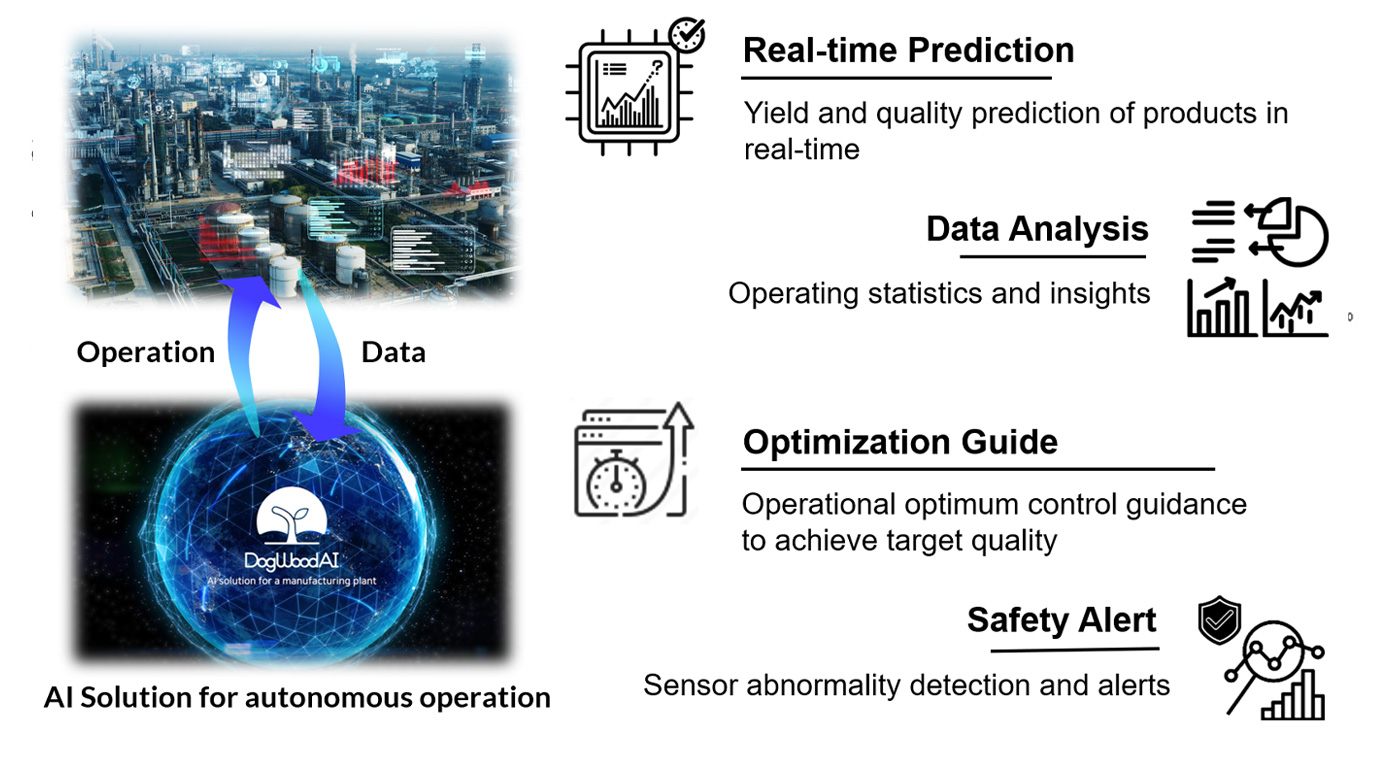
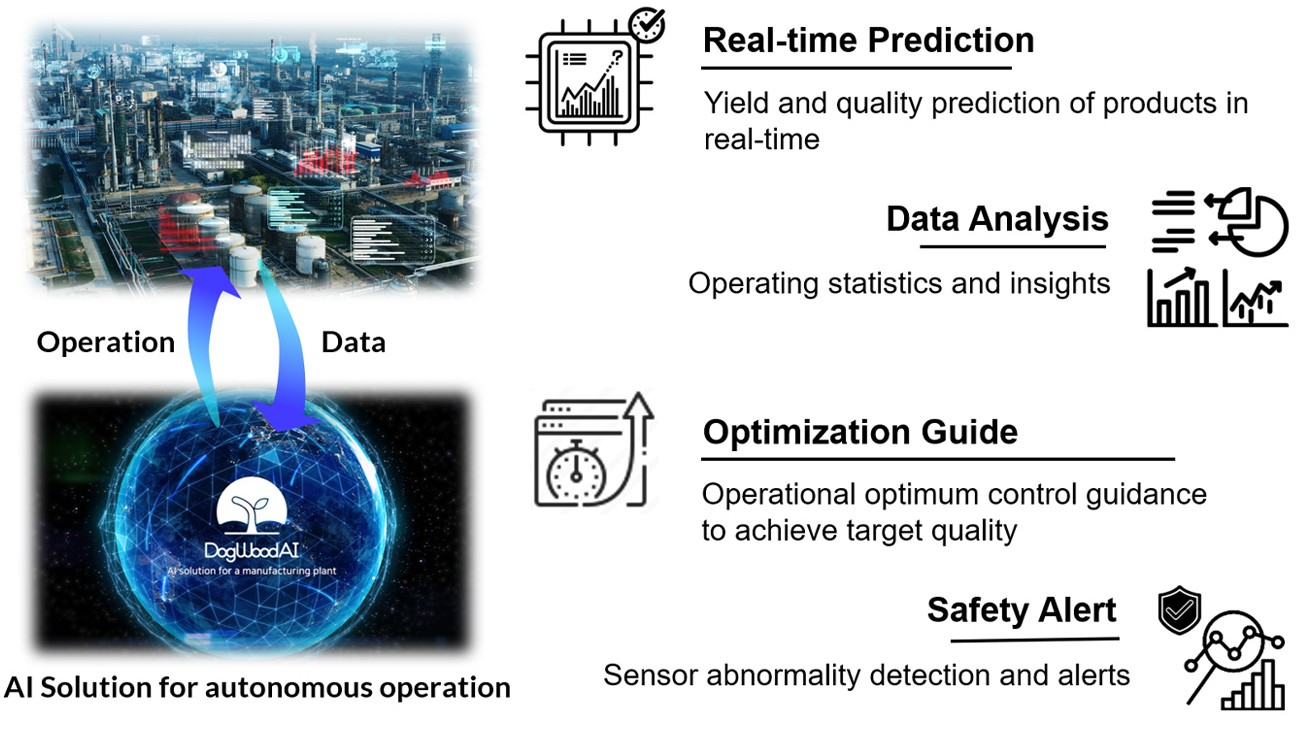
💄 UPDATE: projects 위치조정 및 rndd와 solution 수정
projects 이미지/영상 위치조정, rndd 이미지캡션 밑줄제거, solution 보조키 다시 복구

diff --git a/js/translations.js b/js/translations.js
@@ -82,6 +82,14 @@ window.I18N = {
     "nav.sol6":"PlantAgentPro",
     "nav.sol7":"MLOps",
     "nav.sol8":"Consulting",
+    "nav.sol1.d":"Real-time Product Prediction",
+    "nav.sol2.d":"Operational Data Analysis",
+    "nav.sol3.d":"Plant AI Optimizer",
+    "nav.sol4.d":"Plant AI Simulator",
+    "nav.sol5.d":"Safety Analysis",
+    "nav.sol6.d":"Plant AI Agent",
+    "nav.sol7.d":"AI Management",
+    "nav.sol8.d":"Industrial AI Solution Challenges",
 
     "nav.patents":"Patents",
     "nav.publications":"Publications",
@@ -442,6 +450,14 @@ window.I18N = {
     "nav.sol6":"PlantAgentPro",
     "nav.sol7":"MLOps",
     "nav.sol8":"컨설팅",
+    "nav.sol1.d":"실시간 품질 예측",
+    "nav.sol2.d":"운전 데이터 분석",
+    "nav.sol3.d":"공정 AI 최적화",
+    "nav.sol4.d":"공정 AI 시뮬레이터",
+    "nav.sol5.d":"안전 분석",
+    "nav.sol6.d":"플랜트 AI 에이전트",
+    "nav.sol7.d":"AI 모델 관리",
+    "nav.sol8.d":"산업 AI 도입 컨설팅",
 
     "nav.patents":"특허",
     "nav.publications":"논문",
@@ -479,9 +495,9 @@ window.I18N = {
     "g.benefits":"기대 효과",
     "g.about":"소개",
     "g.case":"적용 사례",
-    "g.challenge":"과제",
-    "g.approachH":"접근 방법",
-    "g.value":"제공 가치",
+    "g.challenge":"해결 과제",
+    "g.approachH":"접근 방식",
+    "g.value":"도입 효과",
     "quick.contact":"CONTACT US",
     "quick.top":"TOP",
     "ap.intro":"DogwoodAI는 각 고객의 요구사항과 플랜트의 운영 환경에 맞춰 최적의 머신러닝 기술을 적용하며, 자율 제조를 실현하기 위해 아래의 다양한 핵심 접근법을 통해 AI 솔루션을 개발하고 있습니다.",

diff --git a/projects.html b/projects.html
@@ -137,19 +137,21 @@ Object.assign(window.I18N.ko, {
     {n:1, img:"assets/project/01.jpg", size:[577,358]},
     {n:2, img:"assets/project/02.jpg", size:[577,358]},
     {n:3, video:"assets/video/Aveva.mp4", size:[1280,720]},
-    {n:4, img:"assets/project/04.jpg", size:[1380,367]},
-    {n:5, img:"assets/project/05.jpg", size:[1380,779]},
-    {n:6, img:"assets/project/06.jpg", size:[577,570]},
-    {n:7, video:"assets/video/mp4.mp4", size:[1280,720]},
+    {n:4, video:"assets/video/mp4.mp4", size:[1280,720]},
+    {n:5, img:"assets/project/04.jpg", size:[1380,367]},
+    {n:6, img:"assets/project/05.jpg", size:[1380,779]},
+    {n:7, img:"assets/project/06.jpg", size:[577,570]},
     {n:8, img:"assets/project/08.jpg", size:[1380,343]},
     {n:9, img:"assets/project/09.jpg", size:[1380,287]}
   ];
   document.getElementById("pjList").innerHTML = P.map(function(p,i){
     var k = "pj"+p.n;
+    var stacked = [5,6,8,9].indexOf(p.n) > -1;
+    var cls = "detail anchor-sec" + (stacked ? " detail--stacked" : (i%2 ? " rev" : ""));
     var media = p.video
       ? '<video class="native-video" width="'+p.size[0]+'" height="'+p.size[1]+'" controls preload="metadata"><source src="'+p.video+'" type="video/mp4"></video>'
       : '<img src="'+p.img+'" alt="" width="'+p.size[0]+'" height="'+p.size[1]+'" loading="lazy">';
-    return '<section class="detail anchor-sec'+(i%2?' rev':'')+'" id="project-'+p.n+'">'+
+    return '<section class="'+cls+'" id="project-'+p.n+'">'+
       '<div class="d-txt reveal">'+
         '<h2 data-i18n="proj.p'+p.n+'.t"></h2>'+
         '<span class="uh" data-i18n="g.challenge"></span>'+

diff --git a/css/style.css b/css/style.css
@@ -690,15 +690,15 @@ section:has(.news-detail-wrap){padding-top:64px}
 .detail--stacked .d-fig .frame{max-width:1400px;margin:0 auto}
 .detail:last-of-type{border-bottom:none}
 .detail.rev .d-fig{order:-1}
-.detail h2{font-size:clamp(1.75rem,2.65vw,2.28rem);margin-bottom:8px;letter-spacing:-.01em}
+.detail h2{font-size:clamp(1.72rem,2.55vw,2.24rem);margin:10px auto;letter-spacing:-.01em}
 .uh{display:inline-block;font-size:1.25rem;font-weight:700;color:#111;
   text-decoration:underline;text-underline-offset:7px;text-decoration-thickness:1.5px;margin:30px 0 13px}
-.detail p{color:#374151;font-size:1.2rem;line-height:1.92}
+.detail p{color:#374151;font-size:1.12rem;line-height:1.9}
 .dash-list{display:flex;flex-direction:column;gap:9px}
 .dash-list li{position:relative;padding-left:18px;color:#374151;font-size:1.18rem;line-height:1.82}
 .dash-list li::before{content:"-";position:absolute;left:2px;color:#374151}
 .d-fig{margin-top:8px}
-.d-fig .frame{border:1px solid #e6e8ef;background:#fff;padding:8px;border-radius:4px}
+.d-fig .frame{border:1px solid var(--line);background:#fff;padding:0;border-radius:4px;overflow:hidden}
 .d-fig img{width:100%;height:auto;display:block}
 .d-fig figcaption{text-align:center;font-weight:600;font-size:.98rem;color:#1f2937;margin-top:13px}
 @media(max-width:900px){

diff --git a/rndd.html b/rndd.html
@@ -43,9 +43,9 @@
 <link href="https://fonts.googleapis.com/css2?family=Poppins:wght@300;400;500;600;700;800&family=Noto+Sans+KR:wght@300;400;500;700;800&display=swap" rel="stylesheet">
 <link rel="stylesheet" href="css/style.css">
 <style>
-.figcap-u{text-align:center;font-size:.85rem;font-weight:600;color:#1f2937;margin-top:13px;text-decoration:underline;text-underline-offset:4px}
+.figcap-u{text-align:center;font-size:.85rem;font-weight:600;color:#1f2937;margin-top:13px}
 /* images render at natural size, centered inside the full-width frame (like the original) */
-#rdList .diagram{padding:26px 18px}
+#rdList .diagram{padding:18px 12px}
 #rdList .diagram img{width:auto;max-width:100%;margin:0 auto}
 /* side layout (text left, figure right) used by select sections */
 .rd-side{display:grid;grid-template-columns:1.06fr .94fr;gap:52px;align-items:start}